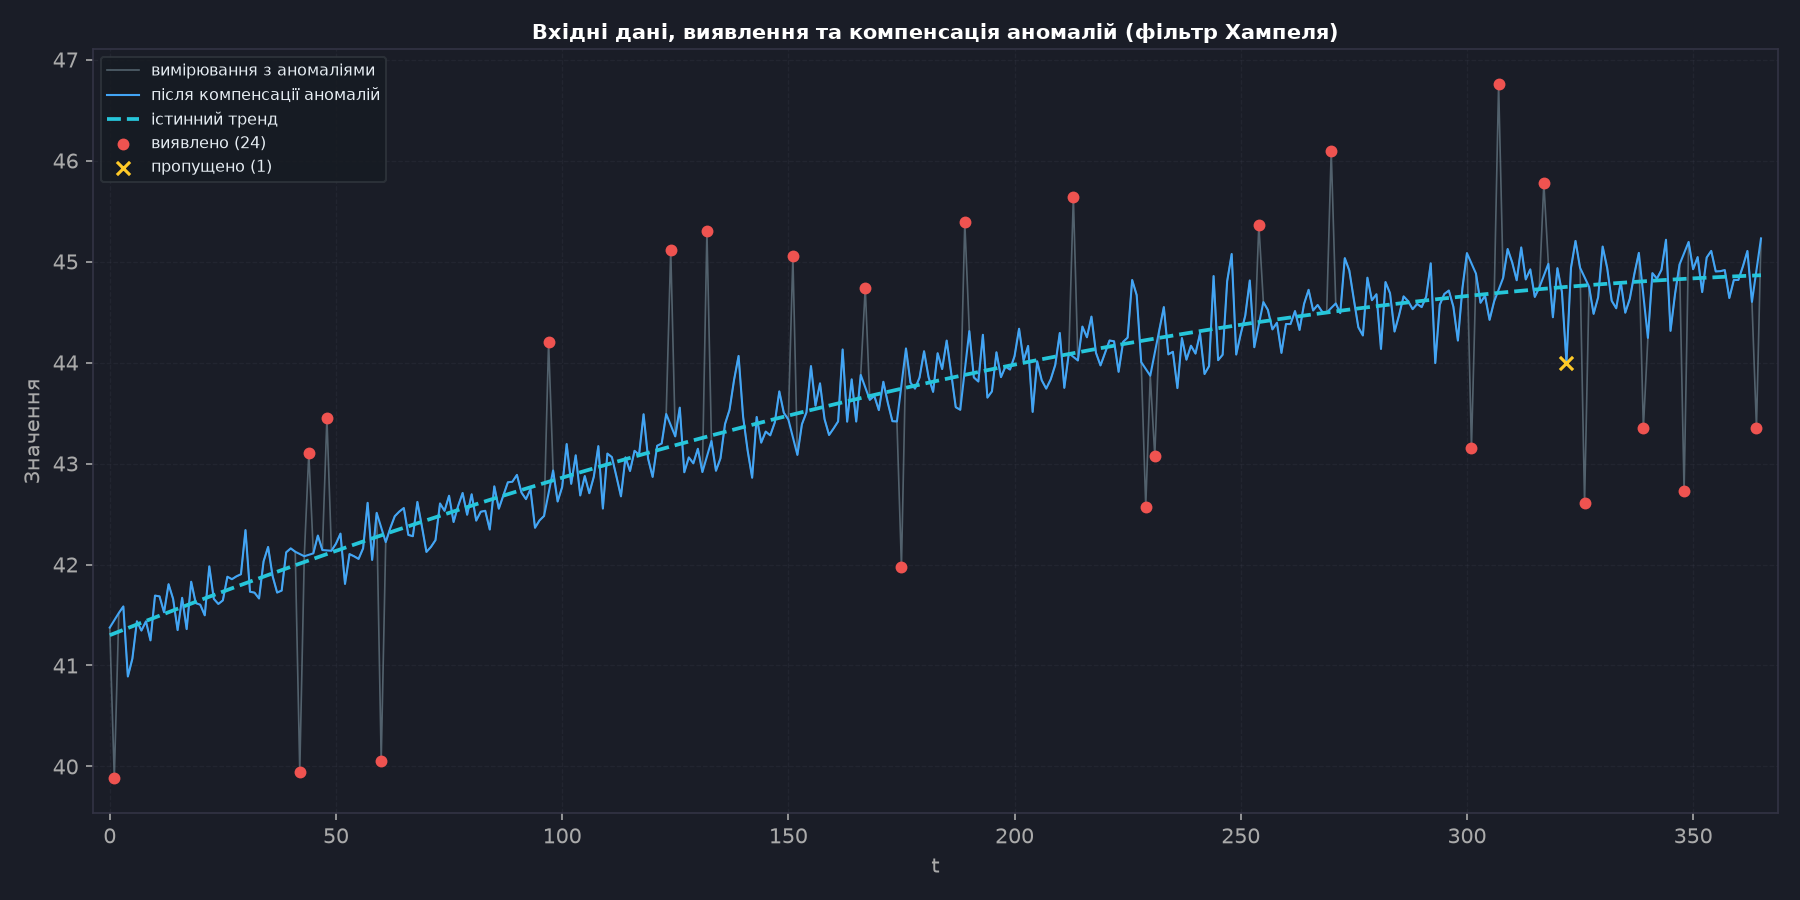
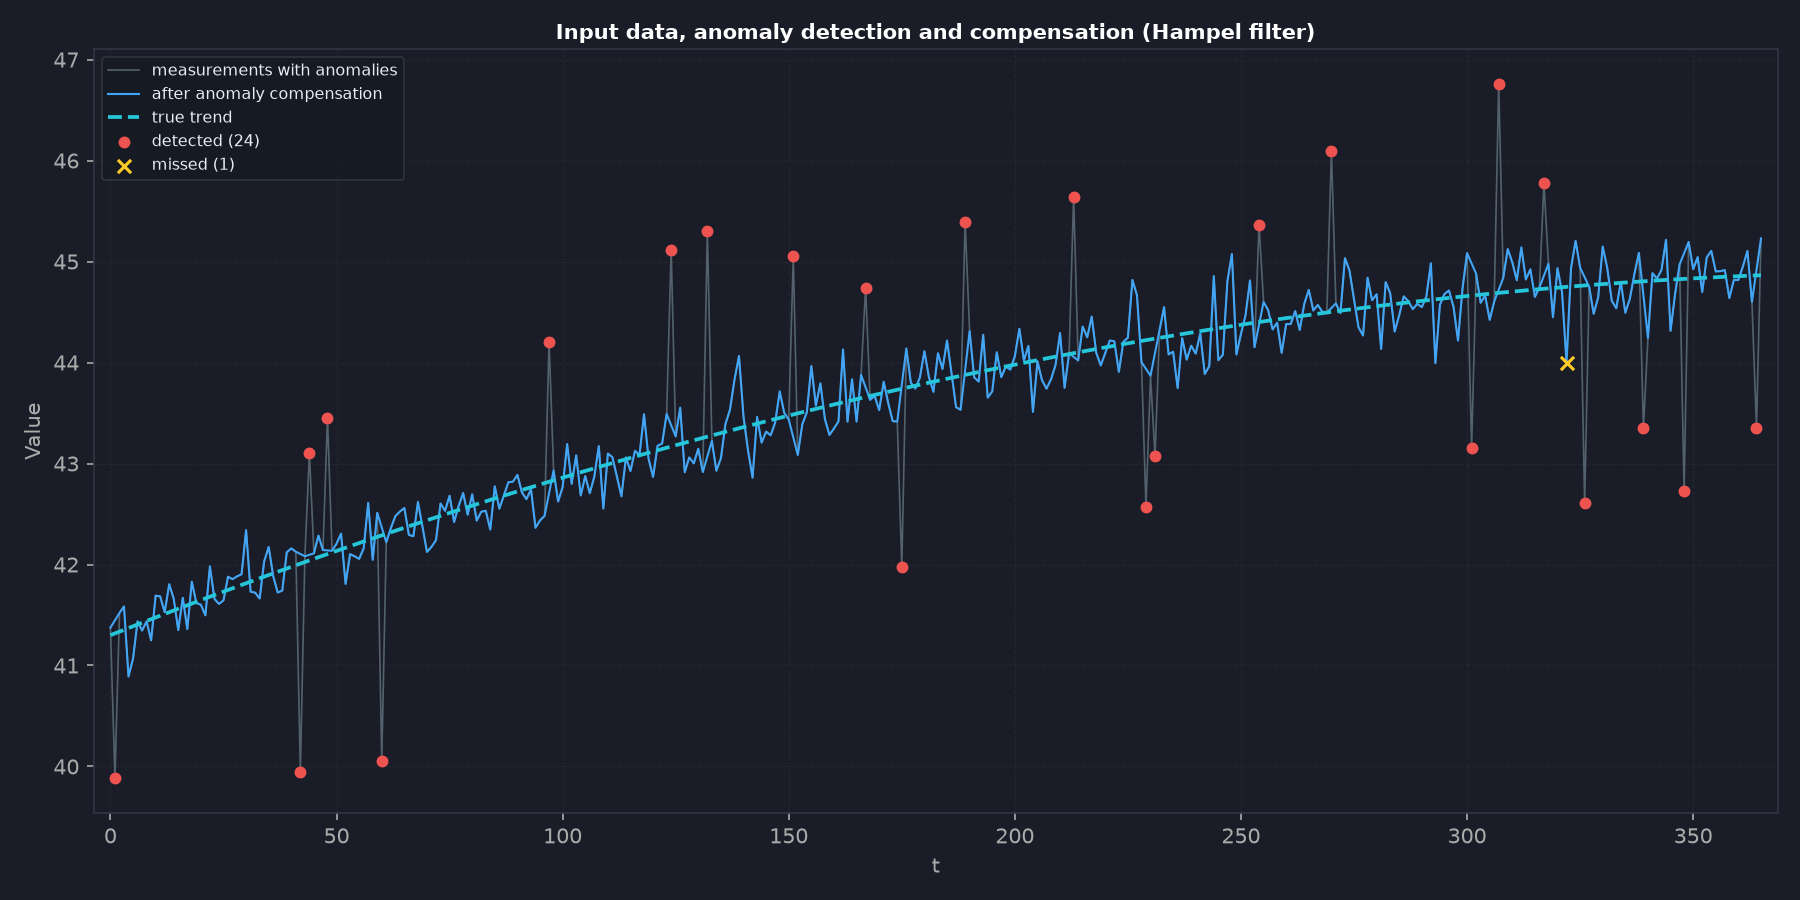
l3: add alpha-beta and alpha-beta-gamma

diff --git a/l3.py b/l3.py
@@ -4,7 +4,8 @@ import matplotlib.pyplot as plt
 import numpy as np
 import pandas as pd
 from scipy import stats
-from scipy.linalg import solve_triangular
+from scipy.linalg import solve_discrete_are
+from scipy.optimize import minimize_scalar
 
 SEED = 42
 OUT_DIR = "outputs"
@@ -16,19 +17,16 @@ FALLBACK_PROPS = dict(n=366, coeffs=np.array([-0.00002201, 0.017799, 41.300157])
 N0_INIT = 10
 IDENT_FRAC = 1 / 3
 SWING = 100
-MAX_DEG = 8
-FORECAST_FRAC = 0.5
-CV_ORIGINS = (0.5, 0.6, 0.7, 0.8)
-CV_HORIZON = 0.2
 ANOM_RATE = 0.07
 ANOM_MULT = (4.0, 8.0)
 HAMPEL_WINDOW = 15
 HAMPEL_K = 3.5
-MC_RUNS = 100
+Q_LOG10_RANGE = (-10.0, 2.0)
+MC_RUNS = 40
 
 C = dict(
     raw="#78909C", anomaly="#EF5350", clean="#42A5F5", ab="#FFCA28",
-    lsm_d="#EF5350", lsm_c="#66BB6A", lsm_n="#AB47BC", extrap="#FF7043",
+    lsm_d="#EF5350", abg="#66BB6A", lsm_n="#AB47BC", extrap="#FF7043",
     true="#26C6DA", bg="#1A1D27", panel="#161B22", grid="#30363D",
     text="#E6EDF3", subtext="#8B949E",
 )
@@ -43,12 +41,14 @@ def main():
     t = np.arange(n, dtype=float)
     ntr = int(n * IDENT_FRAC)
 
-    print("============= 1.1 Input data =============")
+
+    print("============= 1.1: Input data =============")
     print(f"Source of properties: {props['source']}")
     print(f"Trend: y = {props['coeffs'][0]:.8f}*t^2 + {props['coeffs'][1]:.6f}*t + "
         f"{props['coeffs'][2]:.6f}; noise sigma = {props['sigma']:.4f}; N={n}")
     truth, z_noisy = make_signal("quad", n, props, rng)
     z_raw, anom_mask = inject_anomalies(z_noisy, props["sigma"], rng)
+
 
     print("\n============= 1.2: Data Exploration and Anomalies =============")
     sr = study_data(z_raw, t, "with anomalies")
@@ -58,9 +58,35 @@ def main():
     fn = int((~det & anom_mask).sum())
     print(f"Anomalies injected: {anom_mask.sum()}, detected {det.sum()} (TP={tp}, FP={fp}, FN={fn}); "
         f"RMSE relative to truth: {rmse(z_raw, truth):.4f} -> {rmse(z, truth):.4f} after compensation")
+
+
+    print("\n============= 1.3-1.5: alpha-beta and alpha-beta-gamma =============")
+    fits = {}
+    for order, nm in ((1, "a-b"), (2, "a-b-g")):
+        q, nll = tune_q(z, order, sr)
+        X, nu, S, _, Ks = kalman_run(z, order, sr, q)
+        g = steady_state_gains(order, sr, q)
+        a_end, b_end = Ks[-1, 0], Ks[-1, 1]
+        gtxt = ""
+        diff = max(abs(a_end - g["alpha"]), abs(b_end - g["beta"]))
+        if order == 2:
+            gtxt = f", gamma={2 * Ks[-1, 2]:.6f}"
+            diff = max(diff, abs(2 * Ks[-1, 2] - g["gamma"]))
+        aic = 2 * nll + 2
+        fits[nm] = dict(order=order, q=q, nll=nll, aic=aic, X=X, nu=nu, S=S, g=g)
+        print(f"{nm:<6}: q/R={q:.3e}; final alpha={a_end:.4f}, beta={b_end:.5f}{gtxt}; "
+            f"deviation from steady-state (Riccati) {diff:.1e}; -LL={nll:.2f}, AIC={aic:.2f}")
+        print_report(nm, innovation_report(nu, S))
+        err = X[N0_INIT:, 0] - truth[N0_INIT:]
+        print(f"       relative to truth: mean={err.mean():+.4f}, RMSE={rmse(X[N0_INIT:, 0], truth[N0_INIT:]):.4f} "
+            f"(measurement RMSE {rmse(z[N0_INIT:], truth[N0_INIT:]):.4f})")
+
+
+
     
     plot_input(t, truth, z_raw, z, det, anom_mask, f"{OUT_DIR}/l3_input_and_cleaning.png")
-
+    plot_filters(t, truth, z, fits, f"{OUT_DIR}/l3_filters.png")
+    plot_innovations(fits, f"{OUT_DIR}/l3_innovation_diagnostics.png")
 
 # input data
 
@@ -167,6 +193,145 @@ def study_data(z, t, label):
 
 
 
+# state model and filters
+
+def model(order):
+    if order == 1:
+        F = np.array([[1, 1], [0, 1.]])
+        Qs = np.array([[1 / 3, 1 / 2], [1 / 2, 1.]])
+    else:
+        F = np.array([[1, 1, .5], [0, 1, 1], [0, 0, 1.]])
+        Qs = np.array([[1 / 20, 1 / 8, 1 / 6], [1 / 8, 1 / 3, 1 / 2], [1 / 6, 1 / 2, 1.]])
+    H = np.zeros((1, order + 1))
+    H[0, 0] = 1
+    return F, H, Qs
+
+
+def ls_init(z0, order, sigma_r):
+    m = len(z0)
+    s = np.arange(m) - (m - 1.0)
+    phi = np.column_stack([s ** j / math.factorial(j) for j in range(order + 1)])
+    theta = np.linalg.lstsq(phi, z0, rcond=None)[0]
+    return theta, sigma_r ** 2 * np.linalg.inv(phi.T @ phi), phi @ theta, s
+
+
+def _fill_start(X, theta, s):
+    for j in range(len(theta)):
+        X[:len(s), j] = sum(theta[i] * s ** (i - j) / math.factorial(i - j)
+                            for i in range(j, len(theta)))
+
+
+def steady_state_gains(order, sigma_r, q_rel):
+    F, H, Qs = model(order)
+    R = sigma_r ** 2
+    Q = q_rel * R * Qs
+    try:
+        Pp = solve_discrete_are(F.T, H.T, Q, np.array([[R]]))
+    except Exception:
+        Pp = np.eye(order + 1) * R
+        for _ in range(20000):
+            S = Pp[0, 0] + R
+            Pn = F @ (Pp - np.outer(Pp[:, 0], Pp[:, 0]) / S) @ F.T + Q
+            if np.max(np.abs(Pn - Pp)) < 1e-14:
+                break
+            Pp = Pn
+    S = Pp[0, 0] + R
+    K = Pp[:, 0] / S
+    return dict(alpha=K[0], beta=K[1], gamma=2 * K[2] if order == 2 else None, S=S)
+
+
+_CHI2_CACHE = {}
+
+
+def _chi2_thr(m, n_tests):
+    key = (m, n_tests)
+    if key not in _CHI2_CACHE:
+        _CHI2_CACHE[key] = stats.chi2.ppf(1 - FAMILY_ALPHA / n_tests, m)
+    return _CHI2_CACHE[key]
+
+
+def kalman_run(z, order, sigma_r, q_rel, adaptive=False, window=None, n0=N0_INIT):
+    n = len(z)
+    if window is None:
+        window = int(math.ceil(math.sqrt(n)))
+    F, H, Qs = model(order)
+    R = sigma_r ** 2
+    Q = q_rel * R * Qs
+    HQH = (H @ Q @ H.T)[0, 0]
+    theta, P, _, s = ls_init(z[:n0], order, sigma_r)
+    x = theta.copy()
+    X = np.zeros((n, order + 1))
+    _fill_start(X, theta, s)
+    nu = np.full(n, np.nan)
+    Sk = np.full(n, np.nan)
+    lam = np.ones(n)
+    Ks = np.full((n, order + 1), np.nan)
+    eye = np.eye(order + 1)
+    buf = []
+    for k in range(n0, n):
+        xp = F @ x
+        Pp0 = F @ P @ F.T
+        e = z[k] - xp[0]
+        l = 1.0
+        hph = Pp0[0, 0]
+        if adaptive:
+            S0 = hph + HQH + R
+            buf.append(e * e / S0)
+            w = buf[-window:]
+            m = len(w)
+            T = float(np.sum(w))
+            if T > _chi2_thr(m, n):
+                l = max(1.0, (T / m * S0 - R - HQH) / hph)
+        Pp = l * Pp0 + Q
+        S = Pp[0, 0] + R
+        K = Pp[:, 0] / S
+        x = xp + K * e
+        A = eye - np.outer(K, H[0])
+        P = A @ Pp @ A.T + R * np.outer(K, K)
+        X[k] = x
+        nu[k], Sk[k], lam[k], Ks[k] = e, S, l, K
+    return X, nu, Sk, lam, Ks
+
+
+
+def tune_q(z, order, sigma_r, n0=N0_INIT):
+    def nll(u):
+        _, nu, S, _, _ = kalman_run(z, order, sigma_r, 10 ** u, n0=n0)
+        return float(0.5 * np.sum(np.log(S[n0:]) + nu[n0:] ** 2 / S[n0:]))
+
+    lo, hi = Q_LOG10_RANGE
+    grid = np.arange(lo, hi + 1e-9, 2.0)
+    vals = [nll(u) for u in grid]
+    i = int(np.argmin(vals))
+    res = minimize_scalar(nll, bounds=(grid[max(i - 1, 0)], grid[min(i + 1, len(grid) - 1)]),
+                          method="bounded", options=dict(xatol=0.05))
+    return 10 ** res.x, float(res.fun)
+
+
+# innovation diagnostics
+
+def innovation_report(nu, S):
+    nu = nu[~np.isnan(nu)]
+    S = np.asarray(S)
+    S = np.full(nu.shape, float(S)) if S.ndim == 0 else S[-len(nu):]
+    m = len(nu)
+    zn = nu / np.sqrt(S)
+    d = nu - nu.mean()
+    rho = [float(np.sum(d[k:] * d[:-k]) / np.sum(d ** 2)) for k in range(1, 11)]
+    lb = m * (m + 2) * sum(r ** 2 / (m - k) for k, r in enumerate(rho, 1))
+    nis = float(np.sum(zn ** 2))
+    return dict(mean_nu=float(nu.mean()), p_mean=float(stats.ttest_1samp(nu, 0).pvalue),
+                rho1=rho[0], p_lb=float(stats.chi2.sf(lb, 10)), nis_mean=nis / m,
+                inconsistent=nis > stats.chi2.ppf(0.975, m) or nis < stats.chi2.ppf(0.025, m))
+
+
+def print_report(name, rep):
+    print(f"    {name:<15} mean(nu)={rep['mean_nu']:+.4f} (p={rep['p_mean']:.3f})  "
+          f"lag1={rep['rho1']:+.3f}  Ljung-Box p={rep['p_lb']:.3f}  mean NIS={rep['nis_mean']:.2f} "
+          f"({'inconsistent' if rep['inconsistent'] else 'consistent'})")
+
+
+
 
 
 # plots
@@ -197,20 +362,61 @@ def _save(fig, path):
 
 def plot_input(t, truth, z_raw, z, det, mask, path):
     fig, ax = plt.subplots(figsize=(12, 6), facecolor=C["bg"])
-    ax.plot(t, z_raw, color=C["raw"], lw=0.8, alpha=0.6, label="вимірювання з аномаліями")
-    ax.plot(t, z, color=C["clean"], lw=1.0, label="після компенсації аномалій")
-    ax.plot(t, truth, color=C["true"], lw=1.8, ls="--", label="істинний тренд")
-    ax.scatter(t[det], z_raw[det], color=C["anomaly"], s=22, zorder=5, label=f"виявлено ({det.sum()})")
+    ax.plot(t, z_raw, color=C["raw"], lw=0.8, alpha=0.6, label="measurements with anomalies")
+    ax.plot(t, z, color=C["clean"], lw=1.0, label="after anomaly compensation")
+    ax.plot(t, truth, color=C["true"], lw=1.8, ls="--", label="true trend")
+    ax.scatter(t[det], z_raw[det], color=C["anomaly"], s=22, zorder=5, label=f"detected ({det.sum()})")
     missed = mask & ~det
     if missed.any():
         ax.scatter(t[missed], z_raw[missed], color=C["ab"], marker="x", s=40, zorder=6,
-                   label=f"пропущено ({missed.sum()})")
-    ax_style(ax, "Вхідні дані, виявлення та компенсація аномалій (фільтр Хампеля)")
+                   label=f"missed ({missed.sum()})")
+    ax_style(ax, "Input data, anomaly detection and compensation (Hampel filter)")
     ax.set_xlabel("t")
-    ax.set_ylabel("Значення")
+    ax.set_ylabel("Value")
     _save(fig, path)
 
 
+def plot_filters(t, truth, z, fits, path):
+    fig, axes = plt.subplots(2, 1, figsize=(12, 8), facecolor=C["bg"], sharex=True)
+    ax = axes[0]
+    ax.plot(t, z, color=C["raw"], lw=0.8, alpha=0.5, label="measurements (cleaned)")
+    ax.plot(t, truth, color=C["true"], lw=1.8, ls="--", label="true trend")
+    ax.plot(t, fits["a-b"]["X"][:, 0], color=C["ab"], lw=1.5, label="a-b")
+    ax.plot(t, fits["a-b-g"]["X"][:, 0], color=C["abg"], lw=1.5, label="a-b-g")
+    ax_style(ax, "Recursive smoothing")
+    ax.set_ylabel("Value")
+    ax = axes[1]
+    ax.plot(t, fits["a-b"]["X"][:, 0] - truth, color=C["ab"], lw=1.0, label="a-b: error")
+    ax.plot(t, fits["a-b-g"]["X"][:, 0] - truth, color=C["abg"], lw=1.0, label="a-b-g: error")
+    ax.axhline(0, color=C["text"], lw=0.8, alpha=0.5)
+    ax_style(ax, "Estimation error relative to the true trend (unbiasedness)")
+    ax.set_xlabel("t")
+    ax.set_ylabel("Error")
+    _save(fig, path)
+
+
+def plot_innovations(fits, path):
+    fig, axes = plt.subplots(2, 2, figsize=(12, 8), facecolor=C["bg"])
+    for j, nm in enumerate(("a-b", "a-b-g")):
+        nu = fits[nm]["nu"][N0_INIT:]
+        nu_n = nu / np.sqrt(fits[nm]["S"][N0_INIT:])
+        col = C["ab"] if nm == "a-b" else C["abg"]
+        ax = axes[0, j]
+        ax.hist(nu_n, bins=30, density=True, color=col, alpha=0.7, label="normalized innovations")
+        xs = np.linspace(-4, 4, 200)
+        ax.plot(xs, stats.norm.pdf(xs), color=C["text"], lw=1.2, label="N(0,1)")
+        ax_style(ax, f"{nm}: innovations")
+        ax = axes[1, j]
+        lags = np.arange(1, 21)
+        d = nu - nu.mean()
+        acf = [np.sum(d[k:] * d[:-k]) / np.sum(d ** 2) for k in lags]
+        ax.bar(lags, acf, color=col, alpha=0.8)
+        b = 1.96 / math.sqrt(len(nu))
+        ax.axhline(b, color=C["anomaly"], ls=":", label="95% white-noise bound")
+        ax.axhline(-b, color=C["anomaly"], ls=":")
+        ax_style(ax, f"{nm}: innovation autocorrelation")
+        ax.set_xlabel("lag")
+    _save(fig, path)
 
 
 
